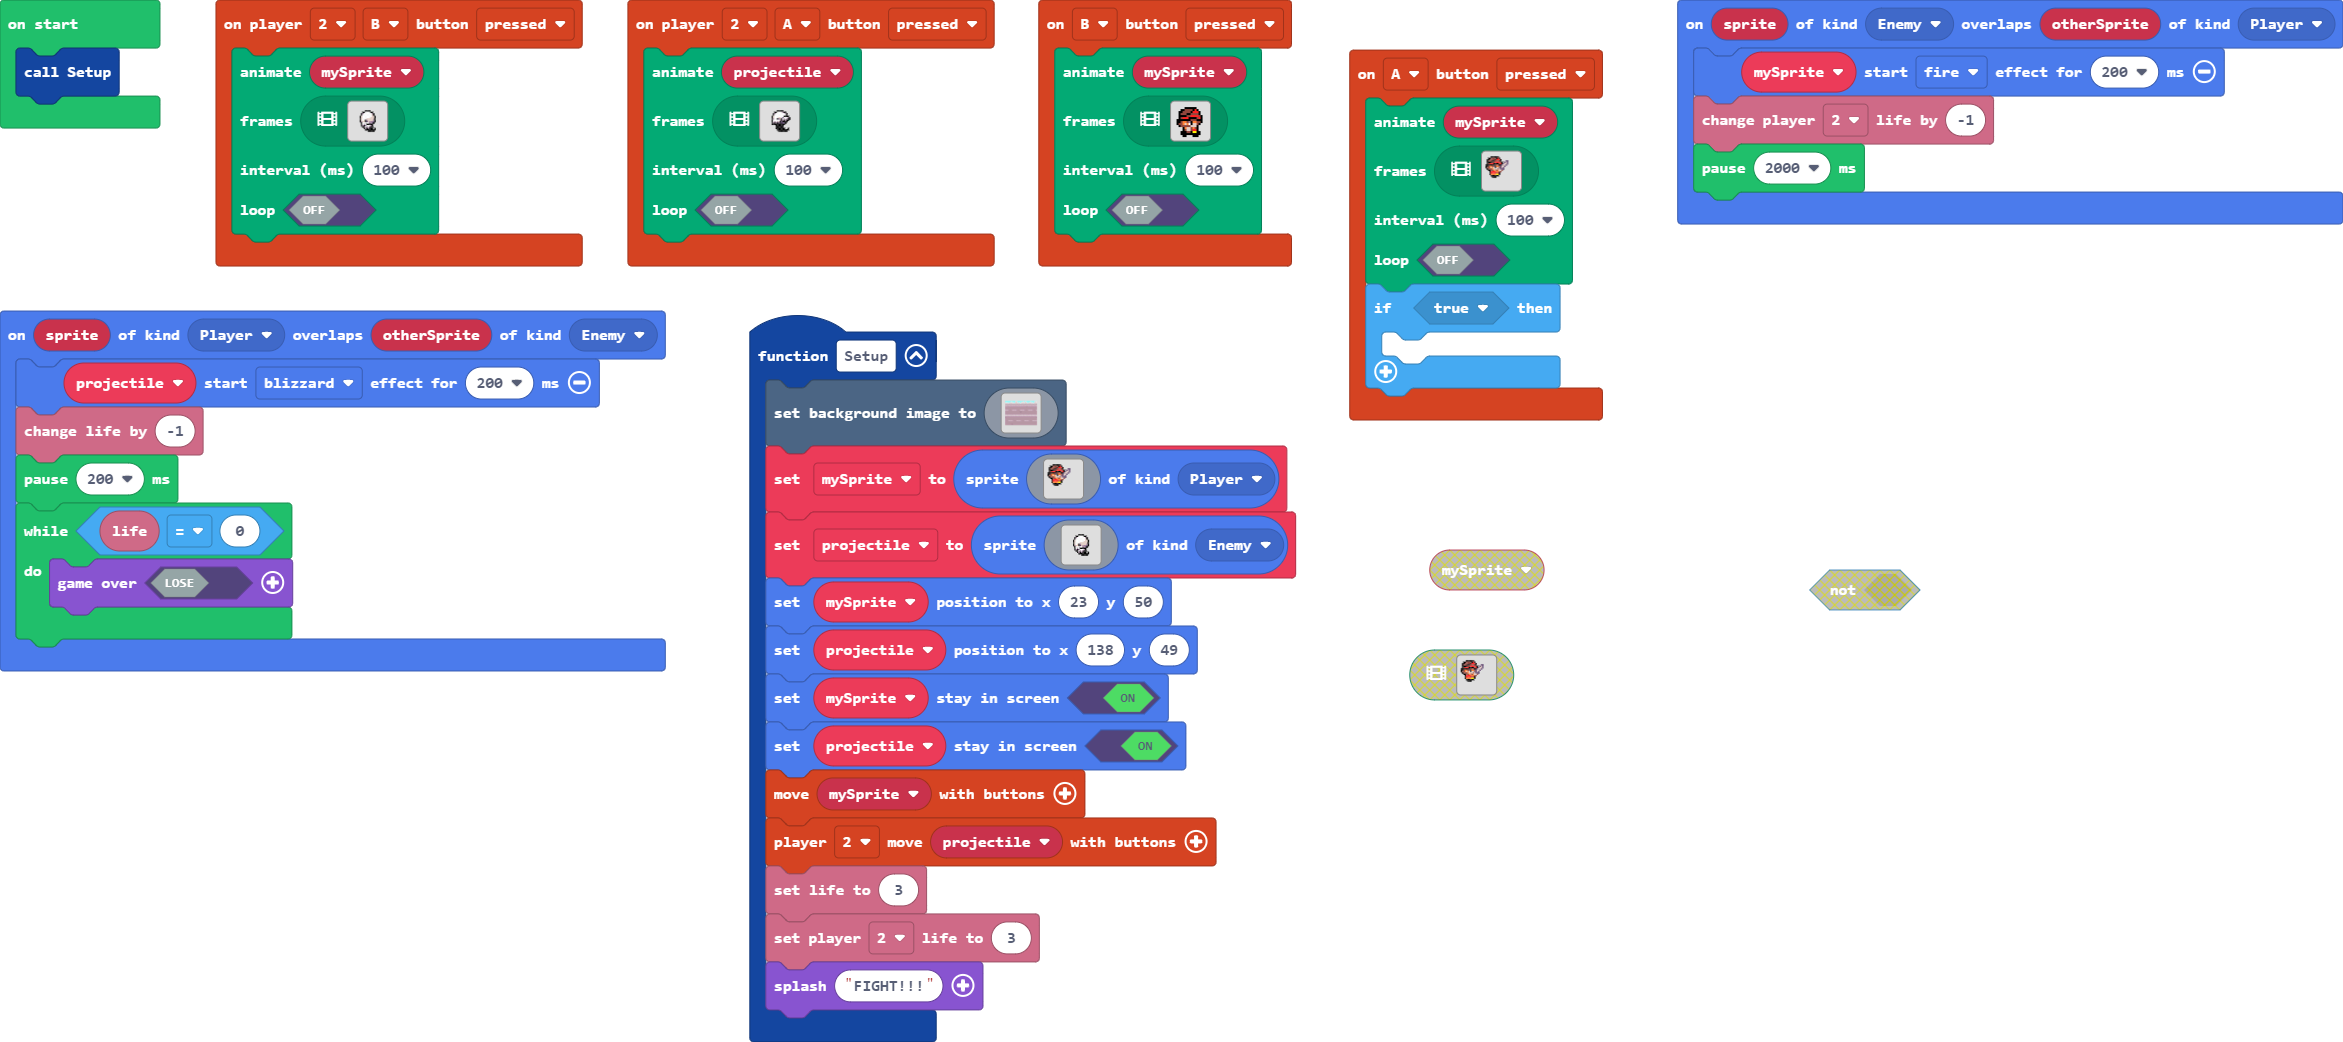
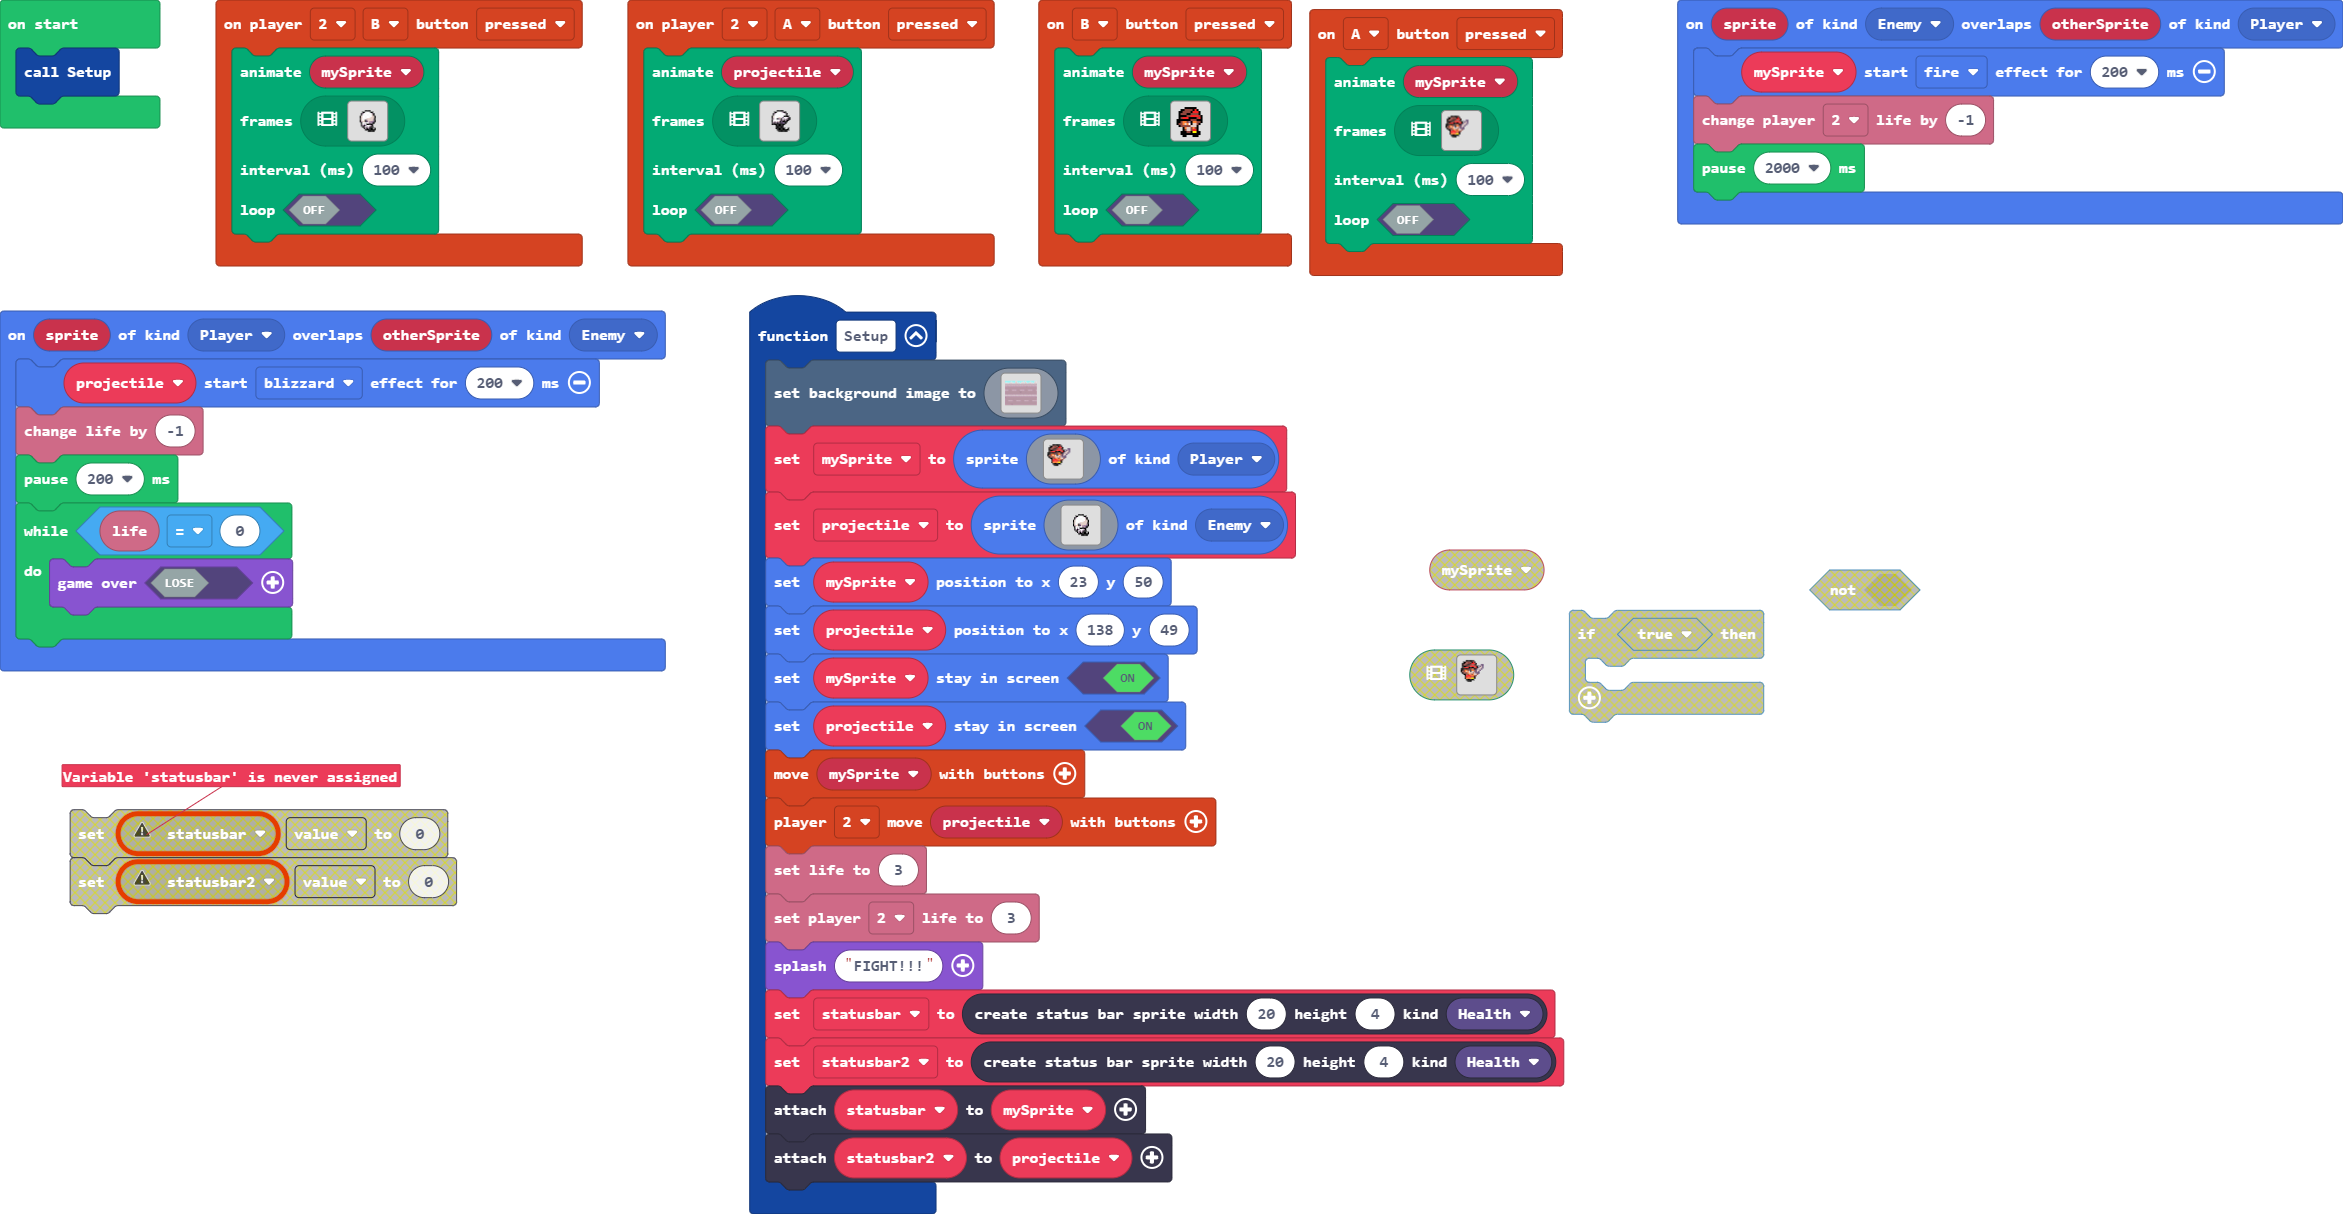
Update main.blocks, main.ts

diff --git a/main.ts b/main.ts
@@ -239,9 +239,6 @@ controller.A.onEvent(ControllerButtonEvent.Pressed, function () {
     100,
     false
     )
-    if (true) {
-    	
-    }
 })
 controller.player2.onButtonEvent(ControllerButton.A, ControllerButtonEvent.Pressed, function () {
     animation.runImageAnimation(
@@ -490,6 +487,10 @@ function Setup () {
     info.setLife(3)
     info.player2.setLife(3)
     game.splash("FIGHT!!!")
+    statusbar = statusbars.create(20, 4, StatusBarKind.Health)
+    statusbar2 = statusbars.create(20, 4, StatusBarKind.Health)
+    statusbar.attachToSprite(mySprite)
+    statusbar2.attachToSprite(projectile)
 }
 sprites.onOverlap(SpriteKind.Player, SpriteKind.Enemy, function (sprite, otherSprite) {
     projectile.startEffect(effects.blizzard, 200)
@@ -499,6 +500,8 @@ sprites.onOverlap(SpriteKind.Player, SpriteKind.Enemy, function (sprite, otherSp
         game.over(false)
     }
 })
+let statusbar2: StatusBarSprite = null
+let statusbar: StatusBarSprite = null
 let projectile: Sprite = null
 let mySprite: Sprite = null
 Setup()
